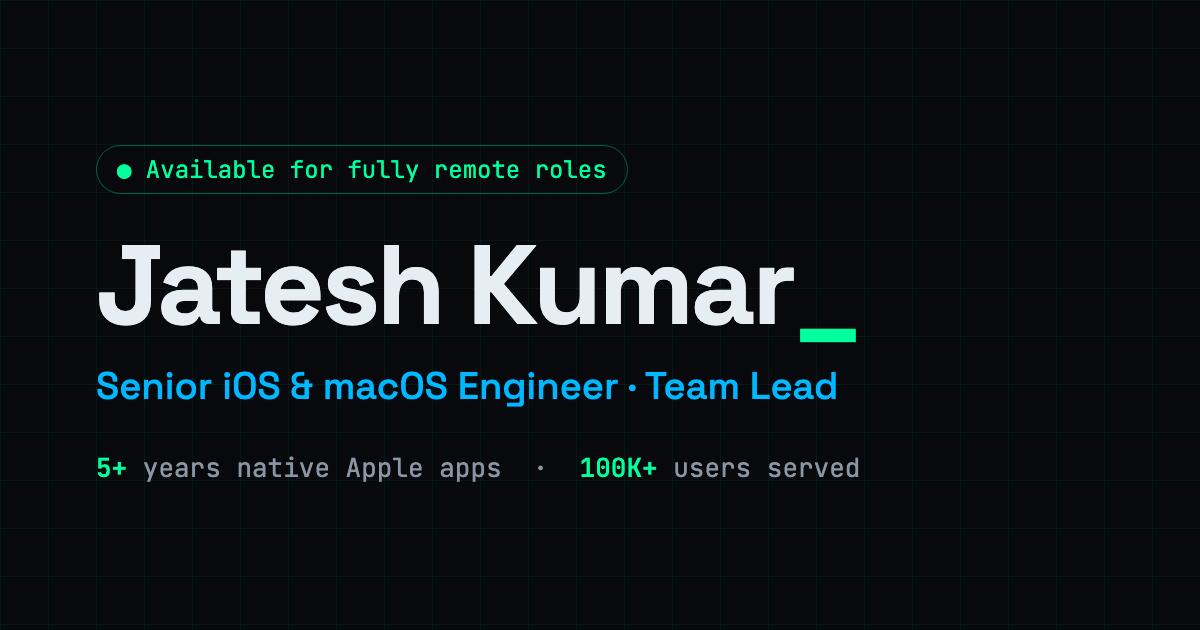
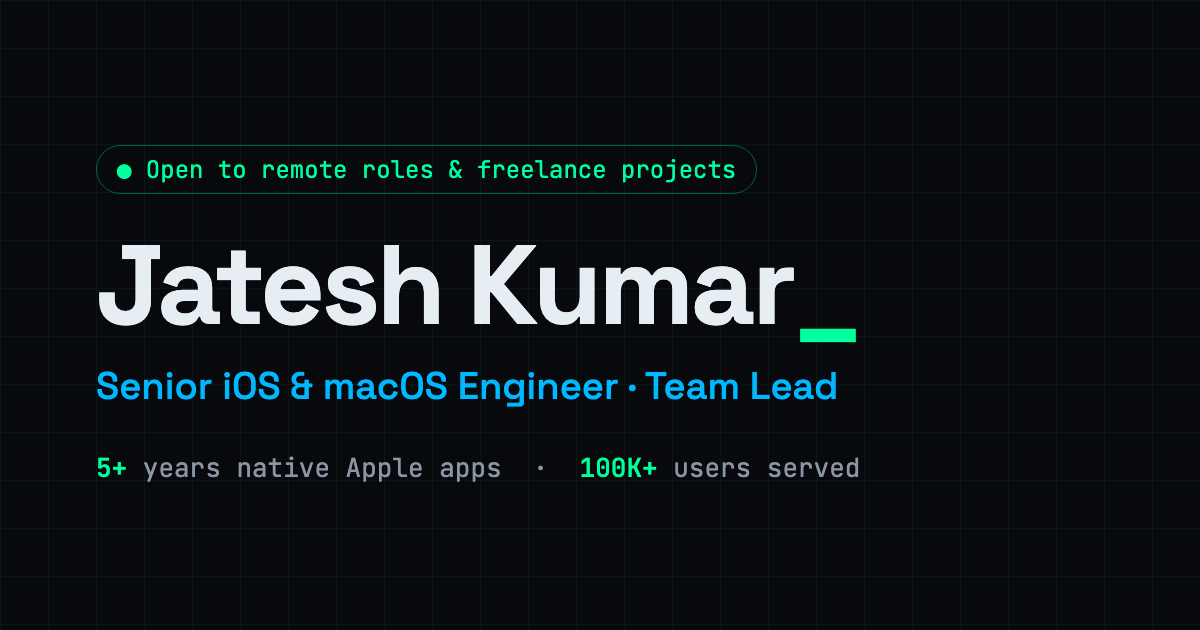
Mention freelance availability and link Upwork and Freelancer profiles
- Hero badge, contact copy, and meta/OG text mention freelance projects
- Freelance banner after What I do, with links to both profiles
- Profile buttons in Client reviews and rows in the contact box
- Regenerate OG preview image with the new badge

Changed region(s): [[0.1233, 0.2413, 0.6167, 0.3016]]

diff --git a/index.html b/index.html
@@ -3,7 +3,7 @@
 <head>
   <meta charset="UTF-8">
   <meta name="viewport" content="width=device-width, initial-scale=1.0">
-  <meta name="description" content="Jatesh Kumar: Senior iOS and macOS Engineer, Deputy Manager (Team Lead). Native apps serving 100K+ users.">
+  <meta name="description" content="Jatesh Kumar: Senior iOS and macOS Engineer, Deputy Manager (Team Lead). Native apps serving 100K+ users. Open to remote roles and freelance projects.">
   <title>Jatesh Kumar | Senior iOS & macOS Engineer</title>
   <link rel="canonical" href="https://jateshkumar.github.io/">
   <meta name="theme-color" content="#07090d">
@@ -13,7 +13,7 @@
   <meta property="og:type" content="website">
   <meta property="og:url" content="https://jateshkumar.github.io/">
   <meta property="og:title" content="Jatesh Kumar | Senior iOS & macOS Engineer">
-  <meta property="og:description" content="Senior iOS and macOS engineer and team lead. 5+ years building native Apple apps serving 100K+ users. Open to fully remote roles.">
+  <meta property="og:description" content="Senior iOS and macOS engineer and team lead. 5+ years building native Apple apps serving 100K+ users. Open to remote roles and freelance projects.">
   <meta property="og:image" content="https://jateshkumar.github.io/assets/og-image.png">
   <meta property="og:image:width" content="1200">
   <meta property="og:image:height" content="630">
@@ -34,7 +34,7 @@
     "address": { "@type": "PostalAddress", "addressLocality": "Karachi", "addressCountry": "PK" },
     "worksFor": { "@type": "Organization", "name": "Ideas Private Limited" },
     "alumniOf": { "@type": "CollegeOrUniversity", "name": "Mehran University of Engineering and Technology" },
-    "sameAs": ["https://www.linkedin.com/in/jkmaheshwari", "https://github.com/jateshkumar"]
+    "sameAs": ["https://www.linkedin.com/in/jkmaheshwari", "https://github.com/jateshkumar", "https://www.upwork.com/freelancers/~01549cd75e5e4d42bc", "https://www.freelancer.pk/u/jateshkumar"]
   }
   </script>
 
@@ -69,7 +69,7 @@
     <section class="hero">
       <div class="hero-main">
         <div class="hero-copy">
-          <p class="eyebrow"><span class="dot" aria-hidden="true"></span> Available for fully remote roles</p>
+          <p class="eyebrow"><span class="dot" aria-hidden="true"></span> Open to remote roles &amp; freelance projects</p>
           <h1>Jatesh Kumar<span class="cursor" aria-hidden="true">_</span></h1>
           <p class="role"><span class="nb">Senior iOS &amp; macOS Engineer</span> <span class="sep">|</span> <span class="nb">Deputy Manager, Team Lead</span></p>
           <p class="intro">
@@ -130,6 +130,18 @@
           <p>I lead a team of five engineers, set technical direction, review work, and bring AI-assisted workflows such as Claude Code into everyday delivery.</p>
         </article>
       </div>
+
+      <aside class="freelance reveal">
+        <div>
+          <span class="service-cmd">&gt; freelance --open</span>
+          <h3>Need an iOS or macOS developer for a project?</h3>
+          <p>I take on select freelance work: new apps, feature development, stability and performance fixes, and App Store releases. Past clients on <a href="https://www.upwork.com/freelancers/~01549cd75e5e4d42bc" target="_blank" rel="noopener">Upwork<span class="sr-only"> (opens in a new tab)</span></a> and <a href="https://www.freelancer.pk/u/jateshkumar" target="_blank" rel="noopener">Freelancer.com<span class="sr-only"> (opens in a new tab)</span></a> rated my work 5.0.</p>
+        </div>
+        <div class="freelance-actions">
+          <a href="#contact" class="btn btn-primary">Start a project</a>
+          <a href="#testimonials" class="btn btn-ghost">Read client reviews</a>
+        </div>
+      </aside>
     </section>
 
     <section id="apps" class="section">
@@ -318,6 +330,10 @@
     <section id="testimonials" class="section">
       <h2><span class="num">05</span> Client reviews</h2>
       <p class="section-lead">Freelance clients on Upwork and Freelancer.com. Every review below is rated 5.0.</p>
+      <div class="review-links">
+        <a href="https://www.upwork.com/freelancers/~01549cd75e5e4d42bc" target="_blank" rel="noopener" class="btn btn-ghost">Upwork profile &rarr;<span class="sr-only"> (opens in a new tab)</span></a>
+        <a href="https://www.freelancer.pk/u/jateshkumar" target="_blank" rel="noopener" class="btn btn-ghost">Freelancer.com profile &rarr;<span class="sr-only"> (opens in a new tab)</span></a>
+      </div>
       <div class="reviews">
         <figure class="review featured reveal">
           <div class="stars" aria-label="Rated 5 out of 5">&#9733;&#9733;&#9733;&#9733;&#9733;</div>
@@ -406,7 +422,7 @@
 
     <section id="contact" class="section contact">
       <h2><span class="num">07</span> Contact</h2>
-      <p class="contact-lead">Have a role, a project, or a question? Send a message and I'll get back to you.</p>
+      <p class="contact-lead">Hiring for a remote role, or need an iOS or macOS developer for a freelance project? Send a message and I'll get back to you.</p>
 
       <div class="contact-wrap">
         <form class="contact-form" action="https://docs.google.com/forms/d/e/1FAIpQLSfF9B4efpykJt9Wj1GjltPPwBxxgweakvXoLYcMWcSIYWyYsw/formResponse" method="POST">
@@ -431,7 +447,9 @@
           <a href="mailto:jateshkumarmaheshwari@gmail.com"><span class="label">email</span>jateshkumarmaheshwari@gmail.com</a>
           <a href="https://www.linkedin.com/in/jkmaheshwari" target="_blank" rel="noopener"><span class="label">linkedin</span>linkedin.com/in/jkmaheshwari</a>
           <a href="https://github.com/jateshkumar" target="_blank" rel="noopener"><span class="label">github</span>github.com/jateshkumar</a>
-          <p><span class="label">location</span>Karachi, Pakistan &middot; Open to remote roles across all time zones</p>
+          <a href="https://www.upwork.com/freelancers/~01549cd75e5e4d42bc" target="_blank" rel="noopener"><span class="label">upwork</span>Hire me on Upwork<span class="sr-only"> (opens in a new tab)</span></a>
+          <a href="https://www.freelancer.pk/u/jateshkumar" target="_blank" rel="noopener"><span class="label">freelancer</span>freelancer.pk/u/jateshkumar<span class="sr-only"> (opens in a new tab)</span></a>
+          <p><span class="label">location</span>Karachi, Pakistan &middot; Open to remote roles and freelance projects across all time zones</p>
         </div>
       </div>
     </section>

diff --git a/style.css b/style.css
@@ -301,6 +301,26 @@ main, .footer {
 }
 .btn-ghost:hover { border-color: var(--accent); color: var(--accent); }
 
+.freelance {
+  display: flex;
+  flex-wrap: wrap;
+  align-items: center;
+  justify-content: space-between;
+  gap: 24px;
+  margin-top: 20px;
+  padding: 28px;
+  border: 1px solid rgba(0, 255, 157, 0.35);
+  border-radius: var(--radius);
+  background: linear-gradient(120deg, rgba(0, 255, 157, 0.08), rgba(0, 184, 255, 0.05) 60%, transparent), var(--panel);
+}
+.freelance > div:first-child { flex: 1 1 420px; }
+.freelance h3 { font-size: 22px; margin-bottom: 8px; }
+.freelance p { color: var(--muted); font-size: 14px; max-width: 620px; }
+.freelance-actions { display: flex; flex-wrap: wrap; gap: 12px; }
+.freelance p a { color: var(--accent); }
+.review-links { display: flex; flex-wrap: wrap; gap: 12px; margin: -12px 0 32px; }
+.review-links .btn { padding: 9px 16px; font-size: 13px; }
+
 /* APPS */
 .grid {
   display: grid;
